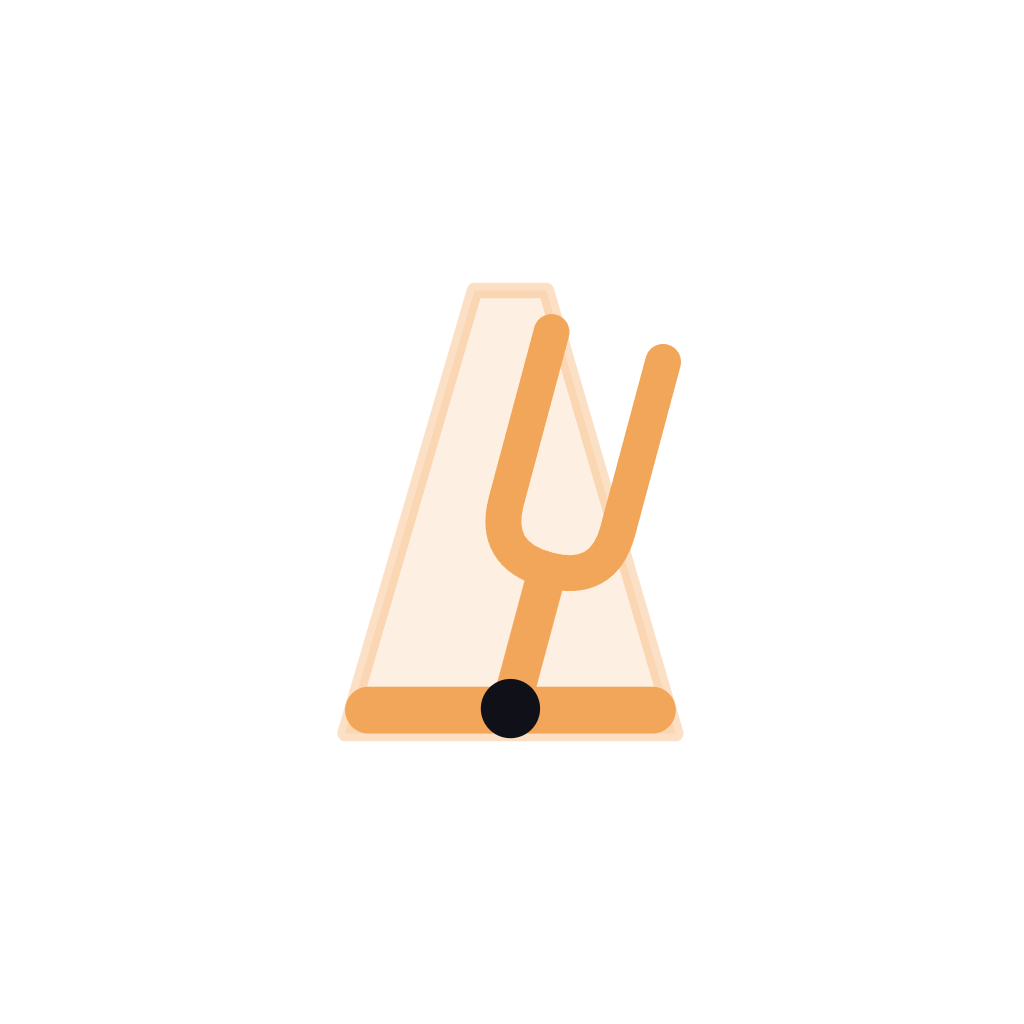
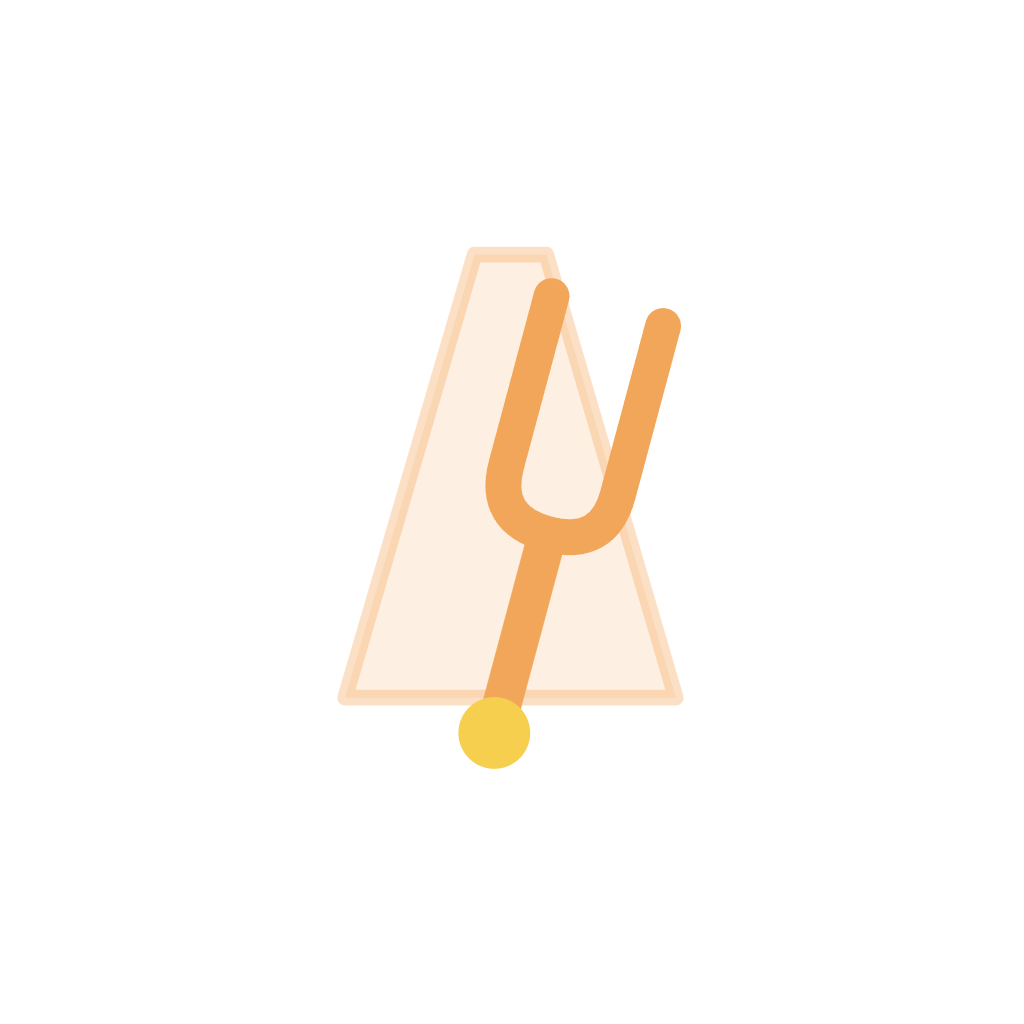
Ta bort gaffelns fot ur ikonen och gulmarkera spelbara toner i listan
Ikonen: det horisontella strecket vid basen är borta. Skaftet är i
stället förlängt nedåt och slutar i en gul kula, som på en riktig
stämgaffel. Alla PNG-storlekar omgjorda.

Listans piano: ospelbara tangenter dämpas inte längre — ett nedtonat
klaviatur slutar se ut som ett piano. De spelbara tonerna markeras med
gult i stället, mörkare gult på svarta tangenter så att markeringen läses
mot båda. Gulten är avsiktligt inte tema-härledd: tangenter är vita och
svarta oavsett tema.

Changed region(s): [[0.3125, 0.2188, 0.6875, 0.75]]

diff --git a/src/components/Keyboard.tsx b/src/components/Keyboard.tsx
@@ -214,7 +214,7 @@ export function Keyboard({
           const active = pressed.includes(midi);
           const tonic = isTonic(midi);
           const saved = selectedTones.includes(midi);
-          const muted = playableTones ? !playableTones.includes(midi) : false;
+          const playable = playableTones?.includes(midi) ?? false;
           return (
             <Pressable
               key={midi}
@@ -222,9 +222,9 @@ export function Keyboard({
               onPressOut={() => release(midi)}
               style={[
                 styles.whiteKey,
+                playable && styles.whiteKeyPlayable,
                 active && styles.whiteKeyPressed,
                 tonic && styles.tonicKey,
-                muted && styles.keyMuted,
               ]}
             >
               <View style={styles.markers}>
@@ -246,7 +246,7 @@ export function Keyboard({
           const active = pressed.includes(midi);
           const tonic = isTonic(midi);
           const saved = selectedTones.includes(midi);
-          const muted = playableTones ? !playableTones.includes(midi) : false;
+          const playable = playableTones?.includes(midi) ?? false;
           return (
             <Pressable
               key={midi}
@@ -258,9 +258,9 @@ export function Keyboard({
                   left:
                     (whiteIndex + 1) * WHITE_KEY_WIDTH - BLACK_KEY_WIDTH / 2,
                 },
+                playable && styles.blackKeyPlayable,
                 active && styles.blackKeyPressed,
                 tonic && styles.tonicKeyBlack,
-                muted && styles.keyMuted,
               ]}
             >
               <View style={styles.markers}>
@@ -323,10 +323,17 @@ const makeStyles = (t: Palette) => StyleSheet.create({
   blackKeyPressed: {
     backgroundColor: t.keyBlackPressed,
   },
-  // Ospelbara tangenter i uppspelningsläget: kvar för orienteringen, men
-  // tydligt avsidesställda.
-  keyMuted: {
-    opacity: 0.35,
+  /**
+   * Spelbara toner i uppspelningsläget markeras med gult i stället för att
+   * resten dämpas — ett nedtonat klaviatur slutar se ut som ett piano.
+   * Gulten är avsiktligt inte tema-härledd: tangenter är vita och svarta
+   * oavsett tema, och markeringen ska läsas mot dem.
+   */
+  whiteKeyPlayable: {
+    backgroundColor: '#f6d566',
+  },
+  blackKeyPlayable: {
+    backgroundColor: '#b8973a',
   },
   tonicKey: {
     backgroundColor: t.pure,
